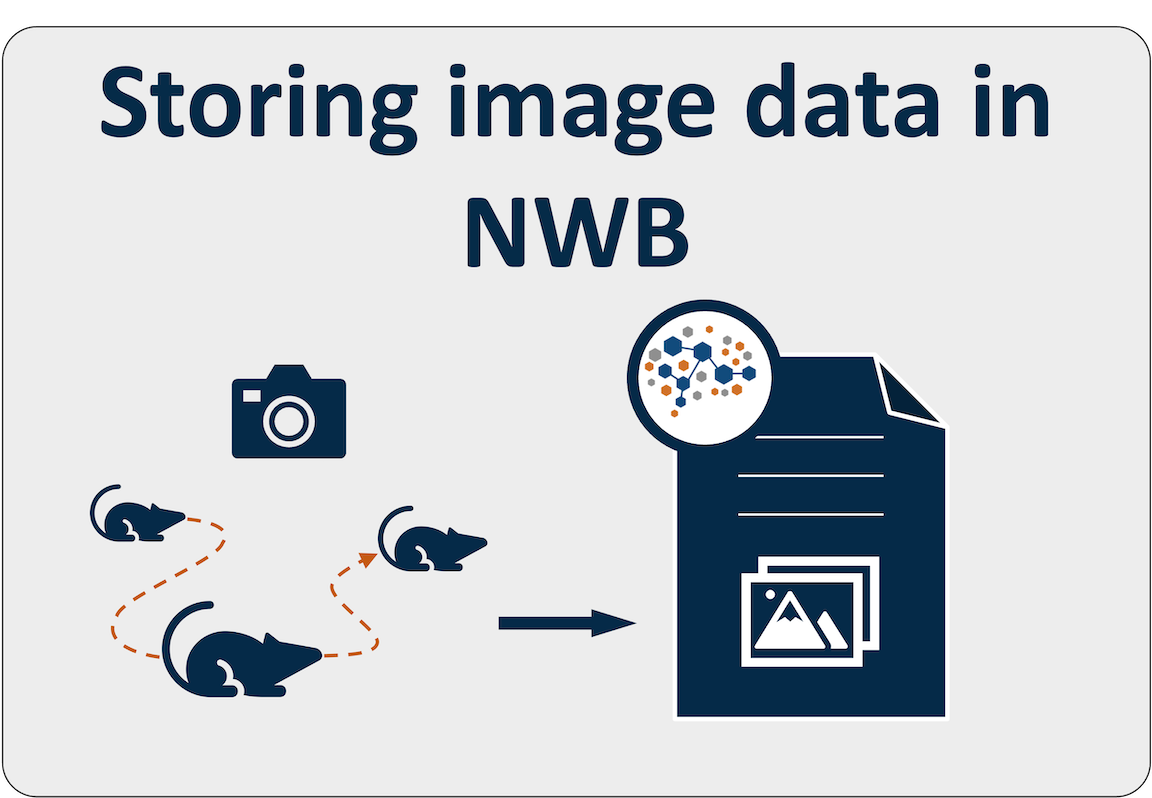
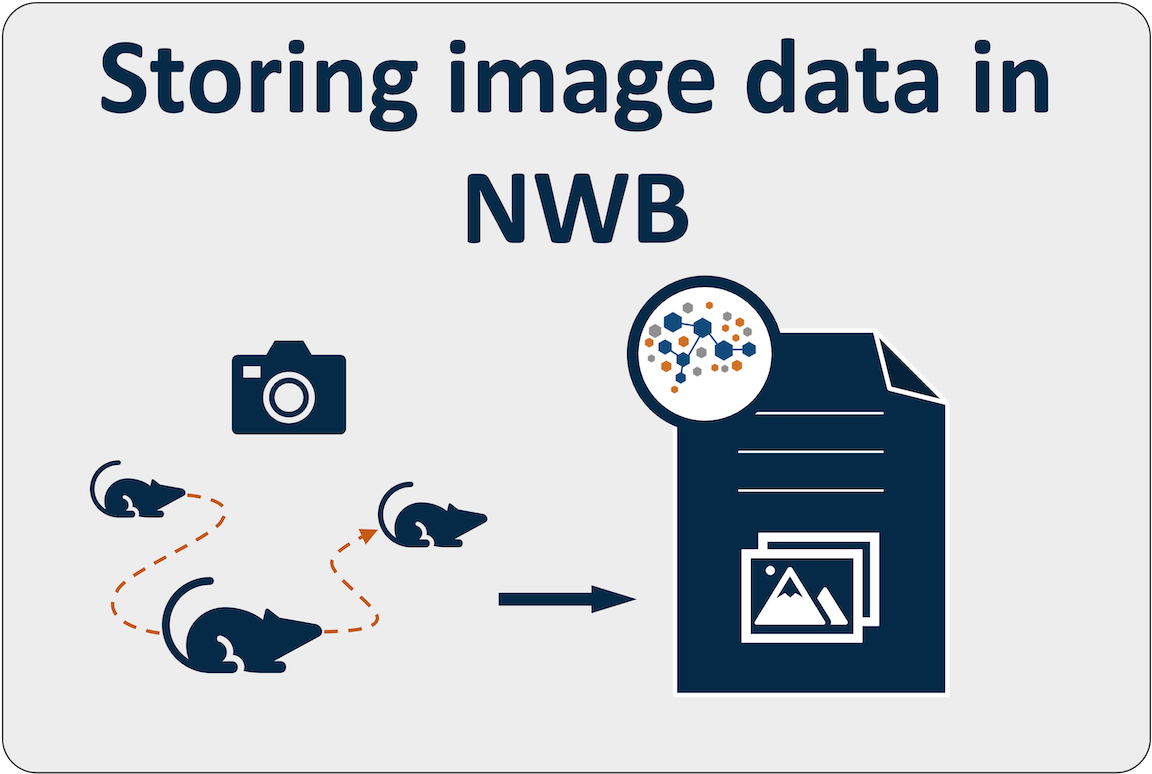
Fix/images tut render (#1512)
* Fix order of tutorials to group images and behavior tutorial

* Remove blank border on images tutorial thumbnail

diff --git a/docs/source/conf.py b/docs/source/conf.py
@@ -83,8 +83,8 @@ class CustomSphinxGallerySectionSortKey(ExampleTitleSortKey):
             "plot_icephys_pandas.py",
             "icephys.py",
             "plot_behavior.py",
-            "brain_observatory.py",
             "images.py",
+            "brain_observatory.py"
         ],
         'advanced_io': []
     }
